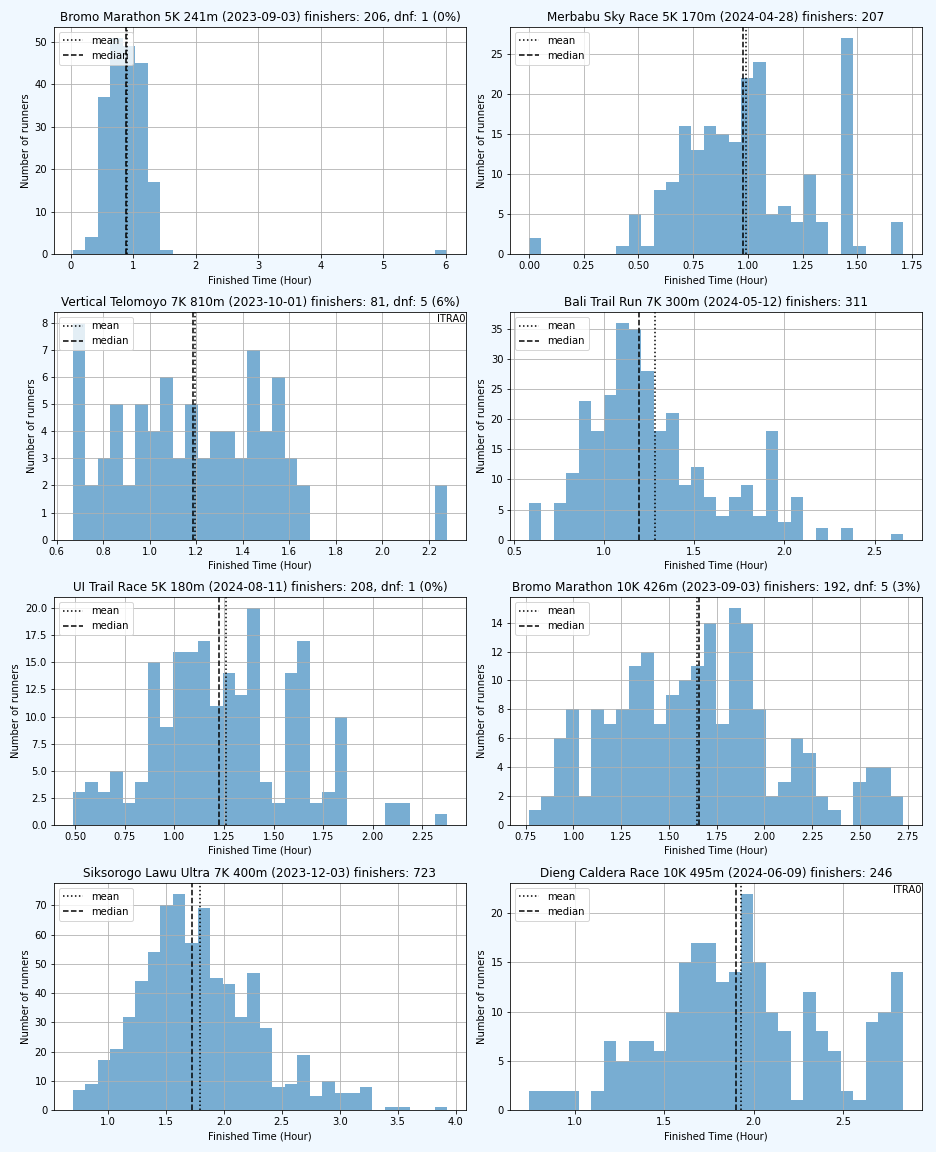
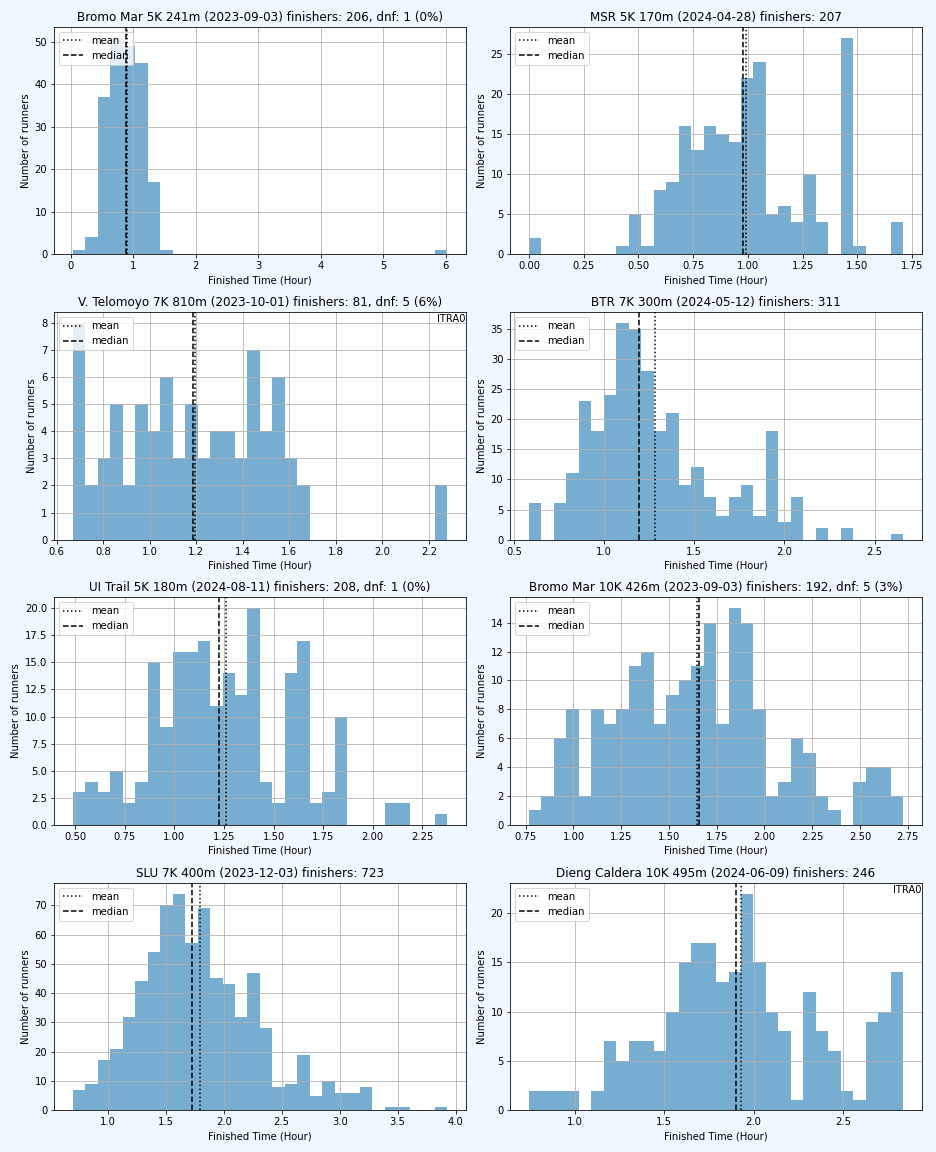
Sort races

diff --git a/README.md b/README.md
@@ -17,22 +17,22 @@ selebriti (namanya engga disebut lengkap) biar mantau posisi aja hehe.
 
 Event-event yg terdata:
 
-- **Bali Trail Run** (BTR): tanggal 2024-05-12, 5 races (links: [![img](images/website_icon.png)](https://balitrailrunning.com)[![img](images/instagram_icon.jpg)](https://www.instagram.com/balitrailrunning/)[![img](images/itra_icon.png)](https://itra.run/Races/RaceDetails/89832/))
-- **Bali Ultra Trail** (BUT): tanggal 2024-08-03, 4 races (links: [![img](images/website_icon.png)](https://baliultratrail.com)[![img](images/instagram_icon.jpg)](https://www.instagram.com/baliultratrail.official/)[![img](images/itra_icon.png)](https://itra.run/Races/RaceDetails/86937/))
-- **Bromo Marathon** (Bromo Mar): tanggal 2023-09-03, 4 races (links: [![img](images/website_icon.png)](https://bromomarathon.com)[![img](images/instagram_icon.jpg)](https://www.instagram.com/bromomarathon/))
-- **Bromo Tengger Trail Run** (Bromo Tgger): tanggal 2024-07-28, 2 races (links: [![img](images/instagram_icon.jpg)](https://www.instagram.com/bromo.tenggertrailrun/)[![img](images/itra_icon.png)](https://itra.run/Races/RaceDetails/93006/))
-- **Coast to Coast** (CTC): tanggal 2024-02-25, 5 races (links: [![img](images/website_icon.png)](https://ctcultra.com)[![img](images/instagram_icon.jpg)](https://www.instagram.com/ctc.ultra/)[![img](images/itra_icon.png)](https://itra.run/Races/RaceDetails/88662/))
-- **Dieng Caldera Race** (Dieng Caldera): tanggal 2024-06-09, 4 races (links: [![img](images/website_icon.png)](https://diengcalderarace.com)[![img](images/instagram_icon.jpg)](https://www.instagram.com/diengcalderarace/)[![img](images/itra_icon.png)](https://itra.run/Races/RaceDetails/93604/))
-- **Jabar Ultra Trail** (JUT): tanggal 2024-06-09, 2 races (links: [![img](images/website_icon.png)](https://jabarultra.com)[![img](images/instagram_icon.jpg)](https://www.instagram.com/jabarultra/)[![img](images/itra_icon.png)](https://itra.run/Races/RaceDetails/92806/))
-- **Mantra 116** (Mantra): tanggal 2024-07-07, 6 races (links: [![img](images/website_icon.png)](https://mantra116.com)[![img](images/instagram_icon.jpg)](https://www.instagram.com/mantra116.id/)[![img](images/itra_icon.png)](https://itra.run/Races/RaceDetails/90032/))
-- **Merapi Merbabu De Trail** (MMDT): tanggal 2024-08-04, 3 races (links: [![img](images/website_icon.png)](https://www.merapimerbabudetrail.com)[![img](images/instagram_icon.jpg)](https://www.instagram.com/merapi_merbabu.detrail/)[![img](images/itra_icon.png)](https://itra.run/Races/RaceDetails/90917/))
-- **Merbabu Sky Race** (MSR): tanggal 2024-04-28, 5 races (links: [![img](images/website_icon.png)](https://merbabuskyrace.com)[![img](images/instagram_icon.jpg)](https://www.instagram.com/merbabu_skyrace/)[![img](images/itra_icon.png)](https://itra.run/Races/RaceDetails/84613/))
-- **Mesastila 100** (MesaStila100): tanggal 2023-10-08, 1 races (links: [![img](images/website_icon.png)](https://mesastila100.com)[![img](images/instagram_icon.jpg)](https://www.instagram.com/mesastila100/)[![img](images/itra_icon.png)](https://itra.run/Races/RaceDetails/82926/))
-- **Rinjani 100** (Rinjani100): tanggal 2024-05-26, 5 races (links: [![img](images/website_icon.png)](https://fonesport.id/rinjani100)[![img](images/instagram_icon.jpg)](https://www.instagram.com/rinjani100.official/)[![img](images/itra_icon.png)](https://itra.run/Races/RaceDetails/91507/))
-- **Siksorogo Lawu Ultra** (SLU): tanggal 2023-12-03, 5 races (links: [![img](images/website_icon.png)](https://siksorogo.id)[![img](images/instagram_icon.jpg)](https://www.instagram.com/siksorogolawuultra/)[![img](images/itra_icon.png)](https://itra.run/Races/RaceDetails/88372/))
-- **Sindoro Sumbing Challenge** (SSC): tanggal 2024-05-05, 3 races (links: [![img](images/website_icon.png)](https://www.sindorosumbingchallenge.com/)[![img](images/instagram_icon.jpg)](https://www.instagram.com/sindoro_sumbing_challenge/)[![img](images/itra_icon.png)](https://itra.run/Races/RaceDetails/89387/))
-- **UI Trail Race** (UI Trail): tanggal 2024-08-11, 5 races (links: [![img](images/website_icon.png)](https://uitrailrun.com)[![img](images/instagram_icon.jpg)](https://www.instagram.com/uitrailrace/)[![img](images/itra_icon.png)](https://itra.run/Races/RaceDetails/94755/))
-- **Vertical Telomoyo** (V. Telomoyo): tanggal 2023-10-01, 2 races (links: [![img](images/website_icon.png)](https://verticaltelomoyo.com)[![img](images/instagram_icon.jpg)](https://www.instagram.com/vertical_telomoyo/)[![img](images/itra_icon.png)](https://itra.run/Races/RaceDetails/85282/))
+- **Bali Trail Run** (BTR): tanggal 2024-05-12, 5 races (links: [homepage](https://balitrailrunning.com) |  [instagram](https://www.instagram.com/balitrailrunning/) | [ITRA](https://itra.run/Races/RaceDetails/89832/))
+- **Bali Ultra Trail** (BUT): tanggal 2024-08-03, 4 races (links: [homepage](https://baliultratrail.com) |  [instagram](https://www.instagram.com/baliultratrail.official/) | [ITRA](https://itra.run/Races/RaceDetails/86937/))
+- **Bromo Marathon** (Bromo Mar): tanggal 2023-09-03, 4 races (links: [homepage](https://bromomarathon.com) |  [instagram](https://www.instagram.com/bromomarathon/))
+- **Bromo Tengger Trail Run** (Bromo Tgger): tanggal 2024-07-28, 2 races (links:  [instagram](https://www.instagram.com/bromo.tenggertrailrun/) | [ITRA](https://itra.run/Races/RaceDetails/93006/))
+- **Coast to Coast** (CTC): tanggal 2024-02-25, 5 races (links: [homepage](https://ctcultra.com) |  [instagram](https://www.instagram.com/ctc.ultra/) | [ITRA](https://itra.run/Races/RaceDetails/88662/))
+- **Dieng Caldera Race** (Dieng Caldera): tanggal 2024-06-09, 4 races (links: [homepage](https://diengcalderarace.com) |  [instagram](https://www.instagram.com/diengcalderarace/) | [ITRA](https://itra.run/Races/RaceDetails/93604/))
+- **Jabar Ultra Trail** (JUT): tanggal 2024-06-09, 2 races (links: [homepage](https://jabarultra.com) |  [instagram](https://www.instagram.com/jabarultra/) | [ITRA](https://itra.run/Races/RaceDetails/92806/))
+- **Mantra 116** (Mantra): tanggal 2024-07-07, 6 races (links: [homepage](https://mantra116.com) |  [instagram](https://www.instagram.com/mantra116.id/) | [ITRA](https://itra.run/Races/RaceDetails/90032/))
+- **Merapi Merbabu De Trail** (MMDT): tanggal 2024-08-04, 3 races (links: [homepage](https://www.merapimerbabudetrail.com) |  [instagram](https://www.instagram.com/merapi_merbabu.detrail/) | [ITRA](https://itra.run/Races/RaceDetails/90917/))
+- **Merbabu Sky Race** (MSR): tanggal 2024-04-28, 5 races (links: [homepage](https://merbabuskyrace.com) |  [instagram](https://www.instagram.com/merbabu_skyrace/) | [ITRA](https://itra.run/Races/RaceDetails/84613/))
+- **Mesastila 100** (MesaStila100): tanggal 2023-10-08, 1 races (links: [homepage](https://mesastila100.com) |  [instagram](https://www.instagram.com/mesastila100/) | [ITRA](https://itra.run/Races/RaceDetails/82926/))
+- **Rinjani 100** (Rinjani100): tanggal 2024-05-26, 5 races (links: [homepage](https://fonesport.id/rinjani100) |  [instagram](https://www.instagram.com/rinjani100.official/) | [ITRA](https://itra.run/Races/RaceDetails/91507/))
+- **Siksorogo Lawu Ultra** (SLU): tanggal 2023-12-03, 5 races (links: [homepage](https://siksorogo.id) |  [instagram](https://www.instagram.com/siksorogolawuultra/) | [ITRA](https://itra.run/Races/RaceDetails/88372/))
+- **Sindoro Sumbing Challenge** (SSC): tanggal 2024-05-05, 3 races (links: [homepage](https://www.sindorosumbingchallenge.com/) |  [instagram](https://www.instagram.com/sindoro_sumbing_challenge/) | [ITRA](https://itra.run/Races/RaceDetails/89387/))
+- **UI Trail Race** (UI Trail): tanggal 2024-08-11, 5 races (links: [homepage](https://uitrailrun.com) |  [instagram](https://www.instagram.com/uitrailrace/) | [ITRA](https://itra.run/Races/RaceDetails/94755/))
+- **Vertical Telomoyo** (V. Telomoyo): tanggal 2023-10-01, 2 races (links: [homepage](https://verticaltelomoyo.com) |  [instagram](https://www.instagram.com/vertical_telomoyo/) | [ITRA](https://itra.run/Races/RaceDetails/85282/))
 
 
 Enjoy dan fork/PR ya.
@@ -40,15 +40,15 @@ Enjoy dan fork/PR ya.
 
 | Event | Jarak(km) | Eg(m) | Finishers | Median / Max (jam) | DNF (Rate) | Kualif. | Mtn. Lvl | Fns. Lvl |
 |------|-----------|-------|-----------|--------------------|------------|-------|----------|----------|
-| BTR [![img](images/website_icon.png)](https://balitrailrunning.com)[![img](images/instagram_icon.jpg)](https://www.instagram.com/balitrailrunning/)[![img](images/itra_icon.png)](https://itra.run/Races/RaceDetails/89832/) | 7 | 300 | 311 | 1.2 / 2.7 |      |  |  |  |
-| Bromo Mar [![img](images/website_icon.png)](https://bromomarathon.com)[![img](images/instagram_icon.jpg)](https://www.instagram.com/bromomarathon/) | 5 | 241 | 206 | 0.9 / 6.0 | 1 (0%) |  |  |  |
-| Bromo Mar [![img](images/website_icon.png)](https://bromomarathon.com)[![img](images/instagram_icon.jpg)](https://www.instagram.com/bromomarathon/) | 10 | 426 | 192 | 1.7 / 2.7 | 5 (3%) |  |  |  |
-| CTC [![img](images/website_icon.png)](https://ctcultra.com)[![img](images/instagram_icon.jpg)](https://www.instagram.com/ctc.ultra/)[![img](images/itra_icon.png)](https://itra.run/Races/RaceDetails/88662/) | 5 | 30 |  | 0.6 / - |      |  |  |  |
-| Dieng Caldera [![img](images/website_icon.png)](https://diengcalderarace.com)[![img](images/instagram_icon.jpg)](https://www.instagram.com/diengcalderarace/)[![img](images/itra_icon.png)](https://itra.run/Races/RaceDetails/93604/) | 10 | 495 | 246 | 1.9 / 2.8 |      | ITRA0 | 5 | 130 |
-| MSR [![img](images/website_icon.png)](https://merbabuskyrace.com)[![img](images/instagram_icon.jpg)](https://www.instagram.com/merbabu_skyrace/)[![img](images/itra_icon.png)](https://itra.run/Races/RaceDetails/84613/) | 5 | 170 | 207 | 1.0 / 1.7 |      |  |  |  |
-| SLU [![img](images/website_icon.png)](https://siksorogo.id)[![img](images/instagram_icon.jpg)](https://www.instagram.com/siksorogolawuultra/)[![img](images/itra_icon.png)](https://itra.run/Races/RaceDetails/88372/) | 7 | 400 | 723 | 1.7 / 3.9 |      |  |  |  |
-| UI Trail [![img](images/website_icon.png)](https://uitrailrun.com)[![img](images/instagram_icon.jpg)](https://www.instagram.com/uitrailrace/)[![img](images/itra_icon.png)](https://itra.run/Races/RaceDetails/94755/) | 5 | 180 | 208 | 1.2 / 2.4 | 1 (0%) |  | 3 | 130 |
-| V. Telomoyo [![img](images/website_icon.png)](https://verticaltelomoyo.com)[![img](images/instagram_icon.jpg)](https://www.instagram.com/vertical_telomoyo/)[![img](images/itra_icon.png)](https://itra.run/Races/RaceDetails/85282/) | 7 | 810 | 81 | 1.2 / 2.3 | 5 (6%) | ITRA0 | 11 | 190 |
+| [CTC](https://www.instagram.com/ctc.ultra/) | 5 | 30 |  | 0.6 / - |      |  |  |  |
+| [Bromo Mar](https://www.instagram.com/bromomarathon/) | 5 | 241 | 206 | 0.9 / 6.0 | 1 (0%) |  |  |  |
+| [MSR](https://www.instagram.com/merbabu_skyrace/) | 5 | 170 | 207 | 1.0 / 1.7 |      |  |  |  |
+| [V. Telomoyo](https://www.instagram.com/vertical_telomoyo/) | 7 | 810 | 81 | 1.2 / 2.3 | 5 (6%) | ITRA0 | 11 | 190 |
+| [BTR](https://www.instagram.com/balitrailrunning/) | 7 | 300 | 311 | 1.2 / 2.7 |      |  |  |  |
+| [UI Trail](https://www.instagram.com/uitrailrace/) | 5 | 180 | 208 | 1.2 / 2.4 | 1 (0%) |  | 3 | 130 |
+| [Bromo Mar](https://www.instagram.com/bromomarathon/) | 10 | 426 | 192 | 1.7 / 2.7 | 5 (3%) |  |  |  |
+| [SLU](https://www.instagram.com/siksorogolawuultra/) | 7 | 400 | 723 | 1.7 / 3.9 |      |  |  |  |
+| [Dieng Caldera](https://www.instagram.com/diengcalderarace/) | 10 | 495 | 246 | 1.9 / 2.8 |      | ITRA0 | 5 | 130 |
 
 ![stat](images/0-2h.png "Statistik")
 
@@ -56,16 +56,16 @@ Enjoy dan fork/PR ya.
 
 | Event | Jarak(km) | Eg(m) | Finishers | Median / Max (jam) | DNF (Rate) | Kualif. | Mtn. Lvl | Fns. Lvl |
 |------|-----------|-------|-----------|--------------------|------------|-------|----------|----------|
-| BUT [![img](images/website_icon.png)](https://baliultratrail.com)[![img](images/instagram_icon.jpg)](https://www.instagram.com/baliultratrail.official/)[![img](images/itra_icon.png)](https://itra.run/Races/RaceDetails/86937/) | 12 | 330 | 70 | 2.3 / 3.6 |      | ITRA0 | 3 | 170 |
-| Bromo Mar [![img](images/website_icon.png)](https://bromomarathon.com)[![img](images/instagram_icon.jpg)](https://www.instagram.com/bromomarathon/) | 21 | 977 | 153 | 3.8 / 6.8 | 4 (3%) |  |  |  |
-| Bromo Tgger [![img](images/instagram_icon.jpg)](https://www.instagram.com/bromo.tenggertrailrun/)[![img](images/itra_icon.png)](https://itra.run/Races/RaceDetails/93006/) | 11 | 480 | 157 | 2.5 / 4.3 |      |  |  |  |
-| CTC [![img](images/website_icon.png)](https://ctcultra.com)[![img](images/instagram_icon.jpg)](https://www.instagram.com/ctc.ultra/)[![img](images/itra_icon.png)](https://itra.run/Races/RaceDetails/88662/) | 15 | 300 | 1100 | 3.1 / 4.0 |      | ITRA0 | 2 | 160 |
-| Mantra [![img](images/website_icon.png)](https://mantra116.com)[![img](images/instagram_icon.jpg)](https://www.instagram.com/mantra116.id/)[![img](images/itra_icon.png)](https://itra.run/Races/RaceDetails/90032/) | 10 | 620 | 311 | 2.4 / 4.5 | 59 (16%) | ITRA0 | 6 | 140 |
-| Mantra [![img](images/website_icon.png)](https://mantra116.com)[![img](images/instagram_icon.jpg)](https://www.instagram.com/mantra116.id/)[![img](images/itra_icon.png)](https://itra.run/Races/RaceDetails/90032/) | 17 | 1000 | 265 | 3.9 / 7.6 | 49 (16%) | ITRA1, UTMB20K | 6 | 220 |
-| MMDT [![img](images/website_icon.png)](https://www.merapimerbabudetrail.com)[![img](images/instagram_icon.jpg)](https://www.instagram.com/merapi_merbabu.detrail/)[![img](images/itra_icon.png)](https://itra.run/Races/RaceDetails/90917/) | 5 | 700 | 97 | 2.5 / 3.5 | 51 (34%) | ITRA0 | 11 | 150 |
-| MSR [![img](images/website_icon.png)](https://merbabuskyrace.com)[![img](images/instagram_icon.jpg)](https://www.instagram.com/merbabu_skyrace/)[![img](images/itra_icon.png)](https://itra.run/Races/RaceDetails/84613/) | 10 | 810 | 295 | 3.3 / 4.0 | 98 (25%) | ITRA0 | 9 | 210 |
-| SLU [![img](images/website_icon.png)](https://siksorogo.id)[![img](images/instagram_icon.jpg)](https://www.instagram.com/siksorogolawuultra/)[![img](images/itra_icon.png)](https://itra.run/Races/RaceDetails/88372/) | 15 | 1200 | 932 | 3.5 / 5.9 |      | ITRA0 | 6 |  |
-| UI Trail [![img](images/website_icon.png)](https://uitrailrun.com)[![img](images/instagram_icon.jpg)](https://www.instagram.com/uitrailrace/)[![img](images/itra_icon.png)](https://itra.run/Races/RaceDetails/94755/) | 10 | 650 | 210 | 3.8 / 7.3 | 2 (1%) | ITRA0 | 6 | 130 |
+| [BUT](https://www.instagram.com/baliultratrail.official/) | 12 | 330 | 70 | 2.3 / 3.6 |      | ITRA0 | 3 | 170 |
+| [Mantra](https://www.instagram.com/mantra116.id/) | 10 | 620 | 311 | 2.4 / 4.5 | 59 (16%) | ITRA0 | 6 | 140 |
+| [Bromo Tgger](https://www.instagram.com/bromo.tenggertrailrun/) | 11 | 480 | 157 | 2.5 / 4.3 |      |  |  |  |
+| [MMDT](https://www.instagram.com/merapi_merbabu.detrail/) | 5 | 700 | 97 | 2.5 / 3.5 | 51 (34%) | ITRA0 | 11 | 150 |
+| [CTC](https://www.instagram.com/ctc.ultra/) | 15 | 300 | 1100 | 3.1 / 4.0 |      | ITRA0 | 2 | 160 |
+| [MSR](https://www.instagram.com/merbabu_skyrace/) | 10 | 810 | 295 | 3.3 / 4.0 | 98 (25%) | ITRA0 | 9 | 210 |
+| [SLU](https://www.instagram.com/siksorogolawuultra/) | 15 | 1200 | 932 | 3.5 / 5.9 |      | ITRA0 | 6 |  |
+| [Bromo Mar](https://www.instagram.com/bromomarathon/) | 21 | 977 | 153 | 3.8 / 6.8 | 4 (3%) |  |  |  |
+| [UI Trail](https://www.instagram.com/uitrailrace/) | 10 | 650 | 210 | 3.8 / 7.3 | 2 (1%) | ITRA0 | 6 | 130 |
+| [Mantra](https://www.instagram.com/mantra116.id/) | 17 | 1000 | 265 | 3.9 / 7.6 | 49 (16%) | ITRA1, UTMB20K | 6 | 220 |
 
 ![stat](images/2-4h.png "Statistik")
 
@@ -73,12 +73,12 @@ Enjoy dan fork/PR ya.
 
 | Event | Jarak(km) | Eg(m) | Finishers | Median / Max (jam) | DNF (Rate) | Kualif. | Mtn. Lvl | Fns. Lvl |
 |------|-----------|-------|-----------|--------------------|------------|-------|----------|----------|
-| BTR [![img](images/website_icon.png)](https://balitrailrunning.com)[![img](images/instagram_icon.jpg)](https://www.instagram.com/balitrailrunning/)[![img](images/itra_icon.png)](https://itra.run/Races/RaceDetails/89832/) | 15 | 973 | 681 | 4.5 / 7.0 | 22 (3%) | UTMB20K |  |  |
-| Bromo Tgger [![img](images/instagram_icon.jpg)](https://www.instagram.com/bromo.tenggertrailrun/)[![img](images/itra_icon.png)](https://itra.run/Races/RaceDetails/93006/) | 21 | 1000 | 76 | 4.2 / 6.8 | 9 (11%) | ITRA1, UTMB20K | 5 | 190 |
-| Dieng Caldera [![img](images/website_icon.png)](https://diengcalderarace.com)[![img](images/instagram_icon.jpg)](https://www.instagram.com/diengcalderarace/)[![img](images/itra_icon.png)](https://itra.run/Races/RaceDetails/93604/) | 21 | 1185 | 268 | 5.9 / 8.7 |      | ITRA1, UTMB20K | 6 | 190 |
-| MMDT [![img](images/website_icon.png)](https://www.merapimerbabudetrail.com)[![img](images/instagram_icon.jpg)](https://www.instagram.com/merapi_merbabu.detrail/)[![img](images/itra_icon.png)](https://itra.run/Races/RaceDetails/90917/) | 10 | 1320 | 166 | 5.3 / 6.9 | 26 (14%) | ITRA0, UTMB20K | 12 | 140 |
-| MesaStila100 [![img](images/website_icon.png)](https://mesastila100.com)[![img](images/instagram_icon.jpg)](https://www.instagram.com/mesastila100/)[![img](images/itra_icon.png)](https://itra.run/Races/RaceDetails/82926/) | 21 | 1230 | 72 | 5.4 / 8.6 | 1 (1%) | ITRA0 | 6 | 220 |
-| V. Telomoyo [![img](images/website_icon.png)](https://verticaltelomoyo.com)[![img](images/instagram_icon.jpg)](https://www.instagram.com/vertical_telomoyo/)[![img](images/itra_icon.png)](https://itra.run/Races/RaceDetails/85282/) | 27 | 1420 | 42 | 5.4 / 7.6 | 4 (9%) | ITRA1, UTMB20K | 5 | 230 |
+| [Bromo Tgger](https://www.instagram.com/bromo.tenggertrailrun/) | 21 | 1000 | 76 | 4.2 / 6.8 | 9 (11%) | ITRA1, UTMB20K | 5 | 190 |
+| [BTR](https://www.instagram.com/balitrailrunning/) | 15 | 973 | 681 | 4.5 / 7.0 | 22 (3%) | UTMB20K |  |  |
+| [MMDT](https://www.instagram.com/merapi_merbabu.detrail/) | 10 | 1320 | 166 | 5.3 / 6.9 | 26 (14%) | ITRA0, UTMB20K | 12 | 140 |
+| [V. Telomoyo](https://www.instagram.com/vertical_telomoyo/) | 27 | 1420 | 42 | 5.4 / 7.6 | 4 (9%) | ITRA1, UTMB20K | 5 | 230 |
+| [MesaStila100](https://www.instagram.com/mesastila100/) | 21 | 1230 | 72 | 5.4 / 8.6 | 1 (1%) | ITRA0 | 6 | 220 |
+| [Dieng Caldera](https://www.instagram.com/diengcalderarace/) | 21 | 1185 | 268 | 5.9 / 8.7 |      | ITRA1, UTMB20K | 6 | 190 |
 
 ![stat](images/4-6h.png "Statistik")
 
@@ -86,17 +86,17 @@ Enjoy dan fork/PR ya.
 
 | Event | Jarak(km) | Eg(m) | Finishers | Median / Max (jam) | DNF (Rate) | Kualif. | Mtn. Lvl | Fns. Lvl |
 |------|-----------|-------|-----------|--------------------|------------|-------|----------|----------|
-| BTR [![img](images/website_icon.png)](https://balitrailrunning.com)[![img](images/instagram_icon.jpg)](https://www.instagram.com/balitrailrunning/)[![img](images/itra_icon.png)](https://itra.run/Races/RaceDetails/89832/) | 30 | 1340 | 302 | 6.1 / 9.0 | 10 (3%) | ITRA1, UTMB20K | 4 | 230 |
-| BUT [![img](images/website_icon.png)](https://baliultratrail.com)[![img](images/instagram_icon.jpg)](https://www.instagram.com/baliultratrail.official/)[![img](images/itra_icon.png)](https://itra.run/Races/RaceDetails/86937/) | 25 | 1650 | 111 | 7.5 / 12.2 | 24 (18%) | ITRA2, UTMB20K | 7 | 190 |
-| Bromo Mar [![img](images/website_icon.png)](https://bromomarathon.com)[![img](images/instagram_icon.jpg)](https://www.instagram.com/bromomarathon/) | 42 | 1930 | 38 | 7.0 / 8.5 | 9 (19%) |  |  |  |
-| CTC [![img](images/website_icon.png)](https://ctcultra.com)[![img](images/instagram_icon.jpg)](https://www.instagram.com/ctc.ultra/)[![img](images/itra_icon.png)](https://itra.run/Races/RaceDetails/88662/) | 30 | 1040 | 245 | 6.5 / 7.0 |      | ITRA0, UTMB20K | 3 | 250 |
-| JUT [![img](images/website_icon.png)](https://jabarultra.com)[![img](images/instagram_icon.jpg)](https://www.instagram.com/jabarultra/)[![img](images/itra_icon.png)](https://itra.run/Races/RaceDetails/92806/) | 22 | 2500 | 101 | 7.8 / 10.0 | 39 (28%) | ITRA2, UTMB20K | 12 | 180 |
-| MSR [![img](images/website_icon.png)](https://merbabuskyrace.com)[![img](images/instagram_icon.jpg)](https://www.instagram.com/merbabu_skyrace/)[![img](images/itra_icon.png)](https://itra.run/Races/RaceDetails/84613/) | 20 | 1830 | 532 | 7.6 / 9.0 | 149 (22%) | ITRA1, UTMB20K | 12 |  |
-| Rinjani100 [![img](images/website_icon.png)](https://fonesport.id/rinjani100)[![img](images/instagram_icon.jpg)](https://www.instagram.com/rinjani100.official/)[![img](images/itra_icon.png)](https://itra.run/Races/RaceDetails/91507/) | 27 | 1847 | 75 | 7.8 / 9.0 | 21 (22%) | ITRA1, UTMB20K | 7 | 210 |
-| SLU [![img](images/website_icon.png)](https://siksorogo.id)[![img](images/instagram_icon.jpg)](https://www.instagram.com/siksorogolawuultra/)[![img](images/itra_icon.png)](https://itra.run/Races/RaceDetails/88372/) | 30 | 1800 | 645 | 7.6 / 10.0 |      | ITRA1, UTMB20K | 7 | 210 |
-| SSC [![img](images/website_icon.png)](https://www.sindorosumbingchallenge.com/)[![img](images/instagram_icon.jpg)](https://www.instagram.com/sindoro_sumbing_challenge/)[![img](images/itra_icon.png)](https://itra.run/Races/RaceDetails/89387/) | 20 | 1963 | 76 | 7.7 / 8.9 | 4 (5%) | ITRA1 | 12 | 190 |
-| SSC [![img](images/website_icon.png)](https://www.sindorosumbingchallenge.com/)[![img](images/instagram_icon.jpg)](https://www.instagram.com/sindoro_sumbing_challenge/)[![img](images/itra_icon.png)](https://itra.run/Races/RaceDetails/89387/) | 20 | 2076 | 65 | 7.4 / 9.0 | 5 (7%) | ITRA1 | 12 | 190 |
-| UI Trail [![img](images/website_icon.png)](https://uitrailrun.com)[![img](images/instagram_icon.jpg)](https://www.instagram.com/uitrailrace/)[![img](images/itra_icon.png)](https://itra.run/Races/RaceDetails/94755/) | 20 | 1500 | 150 | 6.9 / 10.1 | 11 (7%) | ITRA1 | 7 | 150 |
+| [BTR](https://www.instagram.com/balitrailrunning/) | 30 | 1340 | 302 | 6.1 / 9.0 | 10 (3%) | ITRA1, UTMB20K | 4 | 230 |
+| [CTC](https://www.instagram.com/ctc.ultra/) | 30 | 1040 | 245 | 6.5 / 7.0 |      | ITRA0, UTMB20K | 3 | 250 |
+| [UI Trail](https://www.instagram.com/uitrailrace/) | 20 | 1500 | 150 | 6.9 / 10.1 | 11 (7%) | ITRA1 | 7 | 150 |
+| [Bromo Mar](https://www.instagram.com/bromomarathon/) | 42 | 1930 | 38 | 7.0 / 8.5 | 9 (19%) |  |  |  |
+| [SSC](https://www.instagram.com/sindoro_sumbing_challenge/) | 20 | 2076 | 65 | 7.4 / 9.0 | 5 (7%) | ITRA1 | 12 | 190 |
+| [BUT](https://www.instagram.com/baliultratrail.official/) | 25 | 1650 | 111 | 7.5 / 12.2 | 24 (18%) | ITRA2, UTMB20K | 7 | 190 |
+| [SLU](https://www.instagram.com/siksorogolawuultra/) | 30 | 1800 | 645 | 7.6 / 10.0 |      | ITRA1, UTMB20K | 7 | 210 |
+| [MSR](https://www.instagram.com/merbabu_skyrace/) | 20 | 1830 | 532 | 7.6 / 9.0 | 149 (22%) | ITRA1, UTMB20K | 12 |  |
+| [SSC](https://www.instagram.com/sindoro_sumbing_challenge/) | 20 | 1963 | 76 | 7.7 / 8.9 | 4 (5%) | ITRA1 | 12 | 190 |
+| [JUT](https://www.instagram.com/jabarultra/) | 22 | 2500 | 101 | 7.8 / 10.0 | 39 (28%) | ITRA2, UTMB20K | 12 | 180 |
+| [Rinjani100](https://www.instagram.com/rinjani100.official/) | 27 | 1847 | 75 | 7.8 / 9.0 | 21 (22%) | ITRA1, UTMB20K | 7 | 210 |
 
 ![stat](images/6-8h.png "Statistik")
 
@@ -104,11 +104,11 @@ Enjoy dan fork/PR ya.
 
 | Event | Jarak(km) | Eg(m) | Finishers | Median / Max (jam) | DNF (Rate) | Kualif. | Mtn. Lvl | Fns. Lvl |
 |------|-----------|-------|-----------|--------------------|------------|-------|----------|----------|
-| BUT [![img](images/website_icon.png)](https://baliultratrail.com)[![img](images/instagram_icon.jpg)](https://www.instagram.com/baliultratrail.official/)[![img](images/itra_icon.png)](https://itra.run/Races/RaceDetails/86937/) | 50 | 2730 | 70 | 11.8 / 15.7 | 16 (19%) | ITRA3, UTMB50K | 6 | 270 |
-| CTC [![img](images/website_icon.png)](https://ctcultra.com)[![img](images/instagram_icon.jpg)](https://www.instagram.com/ctc.ultra/)[![img](images/itra_icon.png)](https://itra.run/Races/RaceDetails/88662/) | 50 | 1620 | 178 | 11.0 / 12.0 |      | ITRA2, UTMB50K | 3 | 290 |
-| Dieng Caldera [![img](images/website_icon.png)](https://diengcalderarace.com)[![img](images/instagram_icon.jpg)](https://www.instagram.com/diengcalderarace/)[![img](images/itra_icon.png)](https://itra.run/Races/RaceDetails/93604/) | 42 | 2630 | 106 | 10.5 / 14.0 |      | ITRA2, UTMB50K | 7 | 260 |
-| MMDT [![img](images/website_icon.png)](https://www.merapimerbabudetrail.com)[![img](images/instagram_icon.jpg)](https://www.instagram.com/merapi_merbabu.detrail/)[![img](images/itra_icon.png)](https://itra.run/Races/RaceDetails/90917/) | 20 | 2940 | 83 | 12.0 / 13.9 | 13 (14%) | ITRA2, UTMB20K | 12 | 140 |
-| UI Trail [![img](images/website_icon.png)](https://uitrailrun.com)[![img](images/instagram_icon.jpg)](https://www.instagram.com/uitrailrace/)[![img](images/itra_icon.png)](https://itra.run/Races/RaceDetails/94755/) | 40 | 2400 | 38 | 11.8 / 15.2 | 11 (22%) | ITRA2 | 7 | 220 |
+| [Dieng Caldera](https://www.instagram.com/diengcalderarace/) | 42 | 2630 | 106 | 10.5 / 14.0 |      | ITRA2, UTMB50K | 7 | 260 |
+| [CTC](https://www.instagram.com/ctc.ultra/) | 50 | 1620 | 178 | 11.0 / 12.0 |      | ITRA2, UTMB50K | 3 | 290 |
+| [UI Trail](https://www.instagram.com/uitrailrace/) | 40 | 2400 | 38 | 11.8 / 15.2 | 11 (22%) | ITRA2 | 7 | 220 |
+| [BUT](https://www.instagram.com/baliultratrail.official/) | 50 | 2730 | 70 | 11.8 / 15.7 | 16 (19%) | ITRA3, UTMB50K | 6 | 270 |
+| [MMDT](https://www.instagram.com/merapi_merbabu.detrail/) | 20 | 2940 | 83 | 12.0 / 13.9 | 13 (14%) | ITRA2, UTMB20K | 12 | 140 |
 
 ![stat](images/8-12h.png "Statistik")
 
@@ -116,13 +116,13 @@ Enjoy dan fork/PR ya.
 
 | Event | Jarak(km) | Eg(m) | Finishers | Median / Max (jam) | DNF (Rate) | Kualif. | Mtn. Lvl | Fns. Lvl |
 |------|-----------|-------|-----------|--------------------|------------|-------|----------|----------|
-| BTR [![img](images/website_icon.png)](https://balitrailrunning.com)[![img](images/instagram_icon.jpg)](https://www.instagram.com/balitrailrunning/)[![img](images/itra_icon.png)](https://itra.run/Races/RaceDetails/89832/) | 55 | 3778 | 107 | 15.5 / 18.0 | 24 (18%) | ITRA3, UTMB50K | 9 | 270 |
-| CTC [![img](images/website_icon.png)](https://ctcultra.com)[![img](images/instagram_icon.jpg)](https://www.instagram.com/ctc.ultra/)[![img](images/itra_icon.png)](https://itra.run/Races/RaceDetails/88662/) | 80 | 2550 | 64 | 15.9 / 18.0 |      | ITRA3, UTMB100K | 3 | 370 |
-| Mantra [![img](images/website_icon.png)](https://mantra116.com)[![img](images/instagram_icon.jpg)](https://www.instagram.com/mantra116.id/)[![img](images/itra_icon.png)](https://itra.run/Races/RaceDetails/90032/) | 34 | 3050 | 193 | 12.9 / 16.2 | 96 (33%) | ITRA2, UTMB50K | 12 | 200 |
-| Mantra [![img](images/website_icon.png)](https://mantra116.com)[![img](images/instagram_icon.jpg)](https://www.instagram.com/mantra116.id/)[![img](images/itra_icon.png)](https://itra.run/Races/RaceDetails/90032/) | 38 | 2750 | 184 | 12.5 / 15.0 | 54 (23%) | ITRA2, UTMB50K | 9 | 220 |
-| Rinjani100 [![img](images/website_icon.png)](https://fonesport.id/rinjani100)[![img](images/instagram_icon.jpg)](https://www.instagram.com/rinjani100.official/)[![img](images/itra_icon.png)](https://itra.run/Races/RaceDetails/91507/) | 36 | 3179 | 322 | 12.8 / 15.0 | 118 (27%) | ITRA2, UTMB50K | 11 |  |
-| SLU [![img](images/website_icon.png)](https://siksorogo.id)[![img](images/instagram_icon.jpg)](https://www.instagram.com/siksorogolawuultra/)[![img](images/itra_icon.png)](https://itra.run/Races/RaceDetails/88372/) | 50 | 3800 | 231 | 14.2 / 16.8 |      | ITRA3, UTMB50K | 8 | 280 |
-| SSC [![img](images/website_icon.png)](https://www.sindorosumbingchallenge.com/)[![img](images/instagram_icon.jpg)](https://www.instagram.com/sindoro_sumbing_challenge/)[![img](images/itra_icon.png)](https://itra.run/Races/RaceDetails/89387/) | 35 | 4046 | 47 | 12.7 / 18.4 | 11 (19%) | ITRA3 | 12 | 180 |
+| [Mantra](https://www.instagram.com/mantra116.id/) | 38 | 2750 | 184 | 12.5 / 15.0 | 54 (23%) | ITRA2, UTMB50K | 9 | 220 |
+| [SSC](https://www.instagram.com/sindoro_sumbing_challenge/) | 35 | 4046 | 47 | 12.7 / 18.4 | 11 (19%) | ITRA3 | 12 | 180 |
+| [Rinjani100](https://www.instagram.com/rinjani100.official/) | 36 | 3179 | 322 | 12.8 / 15.0 | 118 (27%) | ITRA2, UTMB50K | 11 |  |
+| [Mantra](https://www.instagram.com/mantra116.id/) | 34 | 3050 | 193 | 12.9 / 16.2 | 96 (33%) | ITRA2, UTMB50K | 12 | 200 |
+| [SLU](https://www.instagram.com/siksorogolawuultra/) | 50 | 3800 | 231 | 14.2 / 16.8 |      | ITRA3, UTMB50K | 8 | 280 |
+| [BTR](https://www.instagram.com/balitrailrunning/) | 55 | 3778 | 107 | 15.5 / 18.0 | 24 (18%) | ITRA3, UTMB50K | 9 | 270 |
+| [CTC](https://www.instagram.com/ctc.ultra/) | 80 | 2550 | 64 | 15.9 / 18.0 |      | ITRA3, UTMB100K | 3 | 370 |
 
 ![stat](images/12-16h.png "Statistik")
 
@@ -130,16 +130,16 @@ Enjoy dan fork/PR ya.
 
 | Event | Jarak(km) | Eg(m) | Finishers | Median / Max (jam) | DNF (Rate) | Kualif. | Mtn. Lvl | Fns. Lvl |
 |------|-----------|-------|-----------|--------------------|------------|-------|----------|----------|
-| BTR [![img](images/website_icon.png)](https://balitrailrunning.com)[![img](images/instagram_icon.jpg)](https://www.instagram.com/balitrailrunning/)[![img](images/itra_icon.png)](https://itra.run/Races/RaceDetails/89832/) | 85 | 5250 | 30 | 20.4 / 25.0 | 7 (19%) | ITRA4, UTMB100K | 7 | 320 |
-| BUT [![img](images/website_icon.png)](https://baliultratrail.com)[![img](images/instagram_icon.jpg)](https://www.instagram.com/baliultratrail.official/)[![img](images/itra_icon.png)](https://itra.run/Races/RaceDetails/86937/) | 80 | 4400 | 32 | 17.9 / 22.9 | 14 (30%) | ITRA4, UTMB100K |  | 300 |
-| Dieng Caldera [![img](images/website_icon.png)](https://diengcalderarace.com)[![img](images/instagram_icon.jpg)](https://www.instagram.com/diengcalderarace/)[![img](images/itra_icon.png)](https://itra.run/Races/RaceDetails/93604/) | 75 | 4850 | 30 | 17.2 / 23.6 |      | ITRA4, UTMB100K | 8 | 290 |
-| JUT [![img](images/website_icon.png)](https://jabarultra.com)[![img](images/instagram_icon.jpg)](https://www.instagram.com/jabarultra/)[![img](images/itra_icon.png)](https://itra.run/Races/RaceDetails/92806/) | 55 | 6010 | 7 | 21.2 / 23.4 | 12 (63%) | ITRA3, UTMB100K | 12 | 220 |
-| Mantra [![img](images/website_icon.png)](https://mantra116.com)[![img](images/instagram_icon.jpg)](https://www.instagram.com/mantra116.id/)[![img](images/itra_icon.png)](https://itra.run/Races/RaceDetails/90032/) | 68 | 5000 | 104 | 19.5 / 22.1 | 80 (43%) | ITRA4, UTMB100K | 10 | 280 |
-| MSR [![img](images/website_icon.png)](https://merbabuskyrace.com)[![img](images/instagram_icon.jpg)](https://www.instagram.com/merbabu_skyrace/)[![img](images/itra_icon.png)](https://itra.run/Races/RaceDetails/84613/) | 40 | 4290 | 42 | 16.2 / 17.8 | 63 (60%) | ITRA3, UTMB50K | 12 |  |
-| MSR [![img](images/website_icon.png)](https://merbabuskyrace.com)[![img](images/instagram_icon.jpg)](https://www.instagram.com/merbabu_skyrace/)[![img](images/itra_icon.png)](https://itra.run/Races/RaceDetails/84613/) | 50 | 5970 | 24 | 19.5 / 23.6 | 24 (50%) | ITRA3, UTMB100K | 12 | 220 |
-| Rinjani100 [![img](images/website_icon.png)](https://fonesport.id/rinjani100)[![img](images/instagram_icon.jpg)](https://www.instagram.com/rinjani100.official/)[![img](images/itra_icon.png)](https://itra.run/Races/RaceDetails/91507/) | 60 | 5493 | 43 | 19.1 / 20.0 | 118 (73%) | ITRA3, UTMB100K | 12 | 280 |
-| SLU [![img](images/website_icon.png)](https://siksorogo.id)[![img](images/instagram_icon.jpg)](https://www.instagram.com/siksorogolawuultra/)[![img](images/itra_icon.png)](https://itra.run/Races/RaceDetails/88372/) | 80 | 5400 | 73 | 19.5 / 22.9 |      | ITRA4, UTMB100K | 9 | 290 |
-| UI Trail [![img](images/website_icon.png)](https://uitrailrun.com)[![img](images/instagram_icon.jpg)](https://www.instagram.com/uitrailrace/)[![img](images/itra_icon.png)](https://itra.run/Races/RaceDetails/94755/) | 80 | 4800 | 11 | 21.2 / 23.7 | 18 (62%) | ITRA4 | 8 | 320 |
+| [MSR](https://www.instagram.com/merbabu_skyrace/) | 40 | 4290 | 42 | 16.2 / 17.8 | 63 (60%) | ITRA3, UTMB50K | 12 |  |
+| [Dieng Caldera](https://www.instagram.com/diengcalderarace/) | 75 | 4850 | 30 | 17.2 / 23.6 |      | ITRA4, UTMB100K | 8 | 290 |
+| [BUT](https://www.instagram.com/baliultratrail.official/) | 80 | 4400 | 32 | 17.9 / 22.9 | 14 (30%) | ITRA4, UTMB100K |  | 300 |
+| [Rinjani100](https://www.instagram.com/rinjani100.official/) | 60 | 5493 | 43 | 19.1 / 20.0 | 118 (73%) | ITRA3, UTMB100K | 12 | 280 |
+| [MSR](https://www.instagram.com/merbabu_skyrace/) | 50 | 5970 | 24 | 19.5 / 23.6 | 24 (50%) | ITRA3, UTMB100K | 12 | 220 |
+| [SLU](https://www.instagram.com/siksorogolawuultra/) | 80 | 5400 | 73 | 19.5 / 22.9 |      | ITRA4, UTMB100K | 9 | 290 |
+| [Mantra](https://www.instagram.com/mantra116.id/) | 68 | 5000 | 104 | 19.5 / 22.1 | 80 (43%) | ITRA4, UTMB100K | 10 | 280 |
+| [BTR](https://www.instagram.com/balitrailrunning/) | 85 | 5250 | 30 | 20.4 / 25.0 | 7 (19%) | ITRA4, UTMB100K | 7 | 320 |
+| [JUT](https://www.instagram.com/jabarultra/) | 55 | 6010 | 7 | 21.2 / 23.4 | 12 (63%) | ITRA3, UTMB100K | 12 | 220 |
+| [UI Trail](https://www.instagram.com/uitrailrace/) | 80 | 4800 | 11 | 21.2 / 23.7 | 18 (62%) | ITRA4 | 8 | 320 |
 
 ![stat](images/16-24h.png "Statistik")
 
@@ -147,9 +147,9 @@ Enjoy dan fork/PR ya.
 
 | Event | Jarak(km) | Eg(m) | Finishers | Median / Max (jam) | DNF (Rate) | Kualif. | Mtn. Lvl | Fns. Lvl |
 |------|-----------|-------|-----------|--------------------|------------|-------|----------|----------|
-| Mantra [![img](images/website_icon.png)](https://mantra116.com)[![img](images/instagram_icon.jpg)](https://www.instagram.com/mantra116.id/)[![img](images/itra_icon.png)](https://itra.run/Races/RaceDetails/90032/) | 116 | 7400 | 59 | 29.8 / 33.3 | 51 (46%) | ITRA5, UTMB100M | 9 | 380 |
-| Rinjani100 [![img](images/website_icon.png)](https://fonesport.id/rinjani100)[![img](images/instagram_icon.jpg)](https://www.instagram.com/rinjani100.official/)[![img](images/itra_icon.png)](https://itra.run/Races/RaceDetails/91507/) | 100 | 9194 | 13 | 33.8 / 35.4 | 71 (85%) | ITRA5, UTMB100M | 12 | 350 |
-| Rinjani100 [![img](images/website_icon.png)](https://fonesport.id/rinjani100)[![img](images/instagram_icon.jpg)](https://www.instagram.com/rinjani100.official/)[![img](images/itra_icon.png)](https://itra.run/Races/RaceDetails/91507/) | 162 | 13646 | 6 | 52.0 / 54.4 | 27 (82%) | ITRA6, UTMB100M | 12 |  |
+| [Mantra](https://www.instagram.com/mantra116.id/) | 116 | 7400 | 59 | 29.8 / 33.3 | 51 (46%) | ITRA5, UTMB100M | 9 | 380 |
+| [Rinjani100](https://www.instagram.com/rinjani100.official/) | 100 | 9194 | 13 | 33.8 / 35.4 | 71 (85%) | ITRA5, UTMB100M | 12 | 350 |
+| [Rinjani100](https://www.instagram.com/rinjani100.official/) | 162 | 13646 | 6 | 52.0 / 54.4 | 27 (82%) | ITRA6, UTMB100M | 12 |  |
 
 ![stat](images/24-100h.png "Statistik")
 
